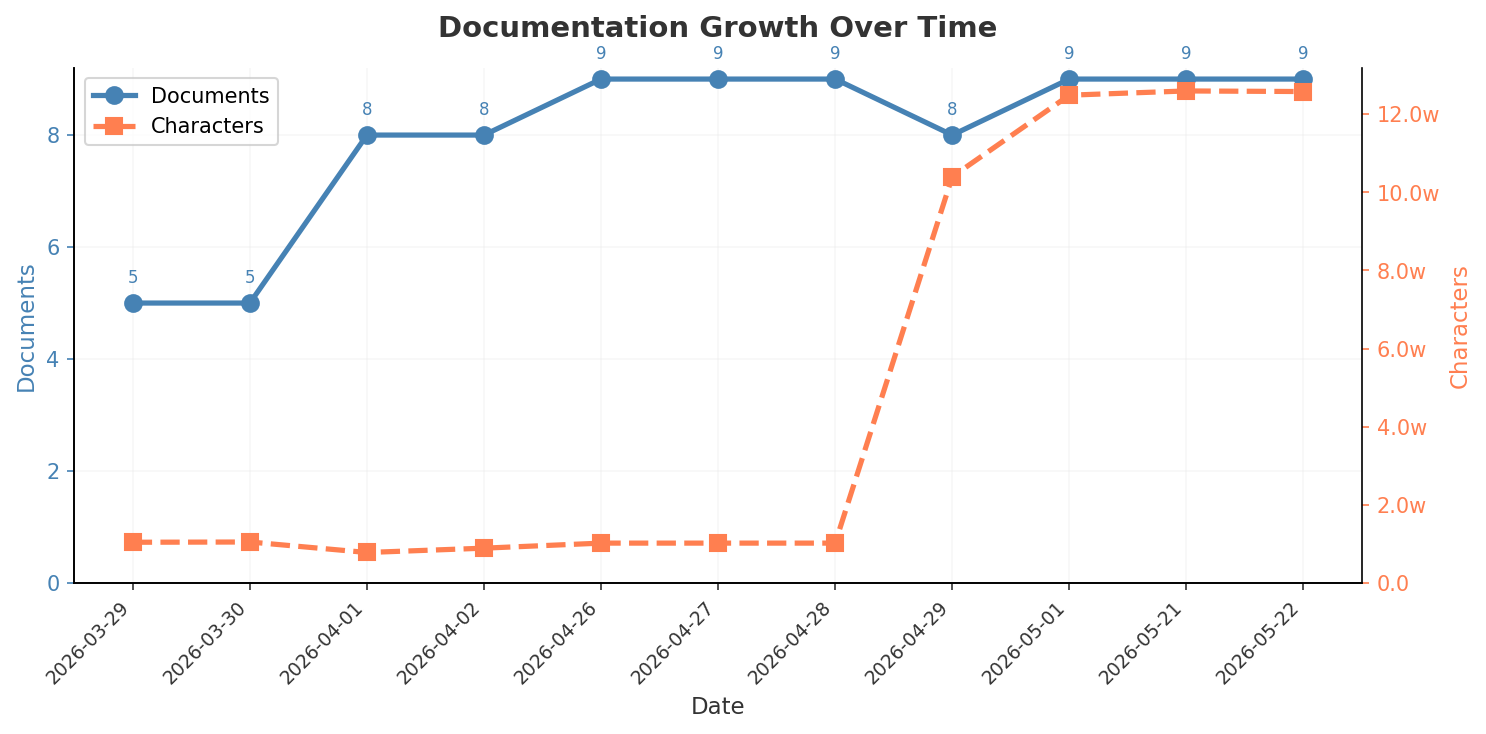
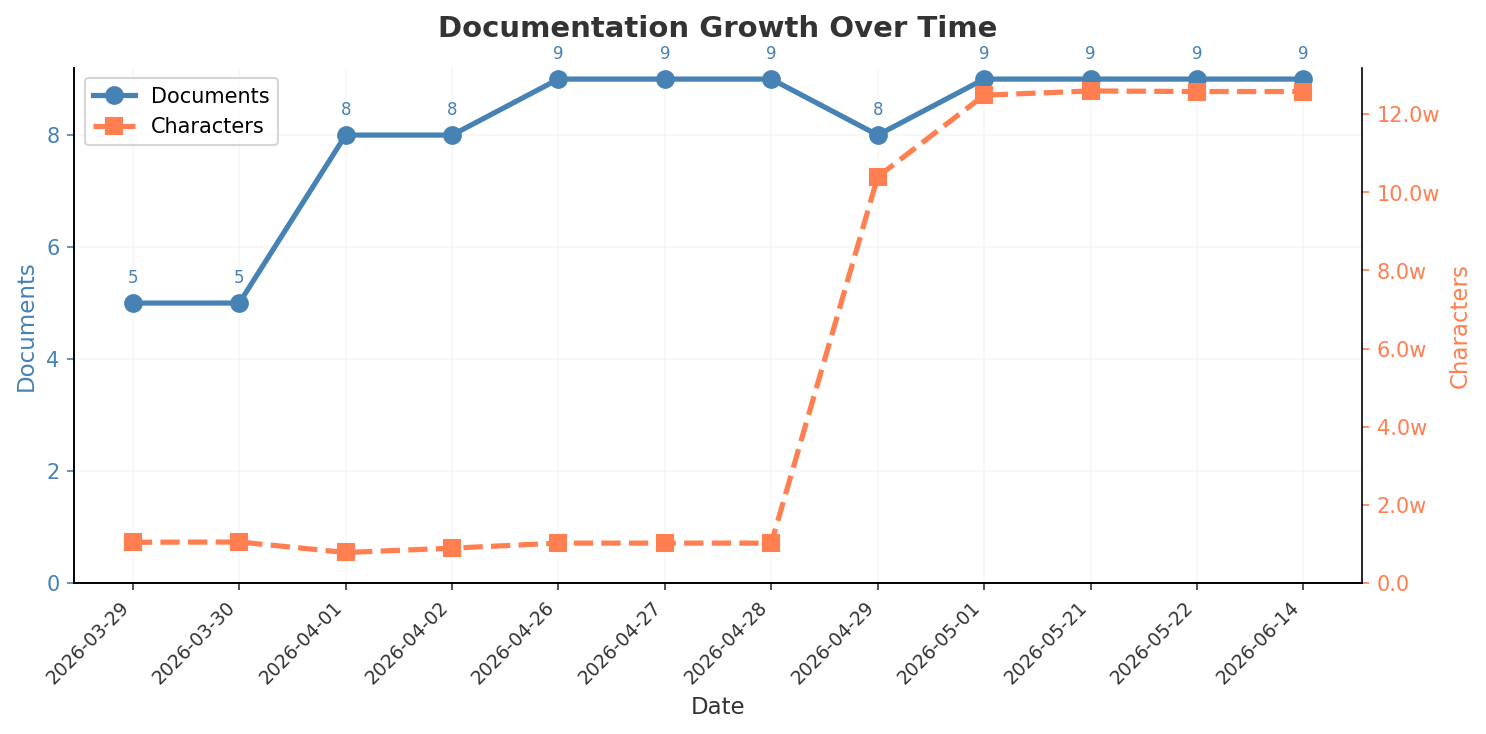
[docs] 添加项目整体架构图
提交者：agent

## Why（为什么做）

可视化展示项目整体架构及数据流关系

## What（做了什么）

- 新增 architecture.drawio 架构图

- 包含内容创作/自动化引擎/数据产出/CI-CD/Web前端/部署交付6层24组件

diff --git a/README.md b/README.md
@@ -2,7 +2,7 @@
 
 > 本索引由脚本自动生成，请勿手动编辑
 >
-> 最后更新：2026-05-22 22:24
+> 最后更新：2026-06-14 01:00
 >
 > 数据源：[index.json](./.readme/index.json)
 >